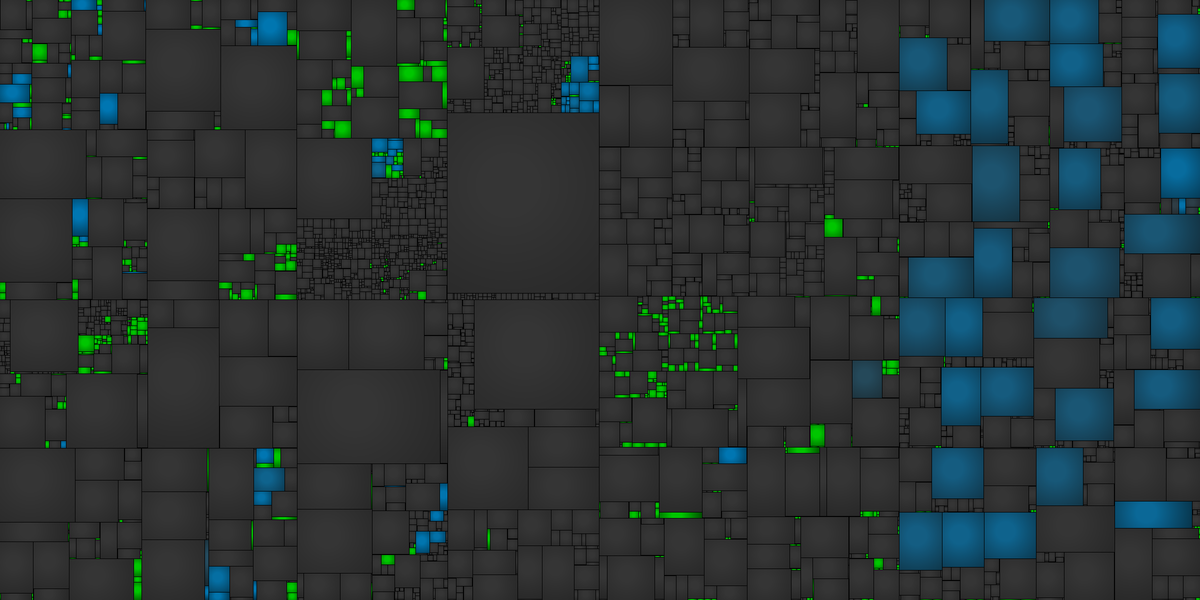
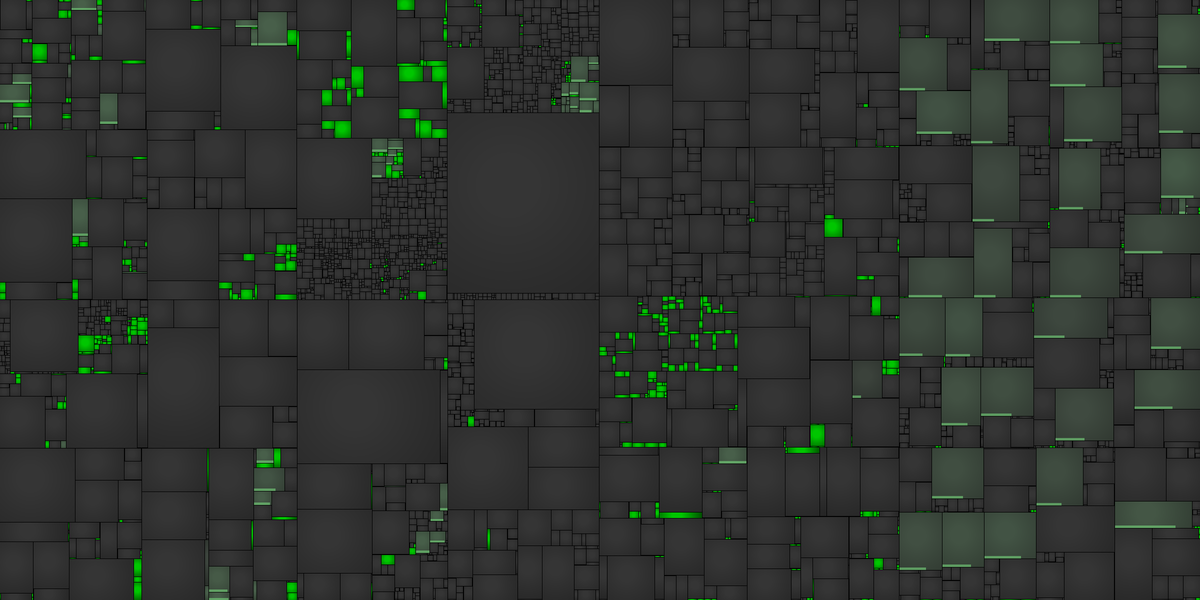
README: restructure intro, move contributors to the bottom; add AGENTS.md; new treemap look

diff --git a/AGENTS.md b/AGENTS.md
@@ -1,0 +1,104 @@
+# AGENTS.md
+
+Instructions for AI agents (Claude, Codex, ...) working on this matching decompilation of Super Smash Bros. Brawl (NTSC-U Rev 2, `RSBE01_02`, MWCC GC/3.0a5.2). A human gives you a task, a name to use, credentials and their identity. Everything else is here.
+
+"Matching" = C++ that compiles to byte-identical code. Progress is `build/RSBE01_02/report.json` (per-function match %) plus the SHA-1 check: **all 127 files must stay OK**. The README explains the project layout and building.
+
+## 0. Ground rules
+
+- **You do not have the game image and must never obtain, copy, print or commit it** (or anything extracted from it: `orig/`, `build/`, assets, asm dumps, maps, codesets, Ghidra output). It lives on the build server.
+- Pick a short name for yourself (lowercase, e.g. `hawk`). Use it for your claims, worktrees and branches.
+- Work alone: **do not use subagents, background agents, parallel tasks or workflow/multi-agent features.** One thread, so you can run for hours on little usage.
+- **Do not ask questions** and do not wait for replies. Decide with the rules below and keep going until your queue is done or you are blocked.
+- If a command is refused, an approval is needed, or the server returns a TLS/auth error: stop and print a 3-line report (what blocked you, what you finished, where your branch is). Do not work around a block.
+- No docs/notes files in this repo (this file and the README are the exceptions). Keep notes outside the repo (on the server in `/srv/brawl-native/notes/`).
+- Never push to `doldecomp/brawl`. Never put keys, tokens or server details in commits.
+
+## 1. The build server
+
+Builds and diffs run on the maintainer's server, because the game image is there. You reach it with a small signed-HTTPS client. Your human gives you `BX_URL` and `BX_KEY`.
+
+```bash
+mkdir -p ~/bin && cat > ~/bin/bx.py <<'PY'
+#!/usr/bin/env python3
+"""bx: run commands / move files on the build server over signed HTTPS.
+env: BX_URL, BX_KEY.   bx.py exec '<shell cmd>' | bx.py get /remote/path local | bx.py put local /remote/path"""
+import hashlib, hmac, json, os, sys, time, uuid, urllib.request, urllib.error
+URL = os.environ["BX_URL"].rstrip("/"); KEY = os.environ["BX_KEY"].encode()
+def call(ep, body=b"", query=""):
+    ts = str(time.time()); nonce = uuid.uuid4().hex
+    msg = "\n".join(["POST", ep + (("?" + query) if query else ""), ts, nonce, hashlib.sha256(body).hexdigest()])
+    sig = hmac.new(KEY, msg.encode(), hashlib.sha256).hexdigest()
+    r = urllib.request.Request(URL + "/" + ep + (("?" + query) if query else ""), data=body, method="POST",
+        headers={"X-Ts": ts, "X-Nonce": nonce, "X-Sig": sig, "User-Agent": "bx/1", "Content-Type": "application/octet-stream"})
+    try: return urllib.request.urlopen(r, timeout=120).read()
+    except urllib.error.HTTPError as e: sys.exit("HTTP %s %s" % (e.code, e.read()[:200]))
+def main():
+    a = sys.argv[1:]
+    if a[0] == "exec":
+        r = json.loads(call("exec", json.dumps({"cmd": a[1], "wait": 40}).encode()))
+        while True:
+            sys.stdout.write(r["data"]); sys.stdout.flush()
+            if r["done"]: sys.exit(r["rc"])
+            r = json.loads(call("job", json.dumps({"id": r["id"], "offset": r["offset"], "wait": 40}).encode()))
+    elif a[0] == "get": open(a[2], "wb").write(call("get", json.dumps({"path": a[1]}).encode()))
+    elif a[0] == "put": print(call("put", open(a[1], "rb").read(), "path=" + a[2]).decode())
+    else: sys.exit(__doc__)
+main()
+PY
+export BX_URL=...   # given by your human
+export BX_KEY=...   # given by your human
+python3 ~/bin/bx.py exec 'whoami; ls /srv/brawl-native'    # expect: claude, then folders
+python3 ~/bin/bx.py exec "git config --global --add safe.directory '*'"
+```
+
+If you get a TLS/certificate error: stop and report it (do not disable verification). You are the unprivileged user `claude` on the server (no sudo). Always use `nice`, at most 4 build jobs, and stay inside `/srv/brawl-native`.
+
+Server layout (`/srv/brawl-native`): `brawl/` (reference checkout, do not edit), `private/Brawl.wbfs` (never touch), `tools/`, `notes/` (`WORK_QUEUE.md`, `map_labels.csv`, `gecko/`, `sibling_status.md`, ...), `references/maps/maps/<module>.map` (symbol names; offsets match `fn_<module id>_<offset>`, 1-6% are wrong, verify), `references/BrawlRE/` (status IDs, module table, PSA events), `ghidra-*` (pseudocode), `CLAIMS.txt`.
+
+## 2. Claims and your work queue
+
+- Read the queue first: `bx exec 'cat /srv/brawl-native/notes/WORK_QUEUE.md'`. Work it top to bottom. Its first item is template instantiations in `sora_melee`; prove the approach on ONE template, report how many functions turn green, then scale it. If instantiations cannot be matched without the original translation-unit boundaries, say so and move to the next item instead of guessing boundaries.
+- Other agents work at the same time. Before starting a unit: `bx exec 'cat /srv/brawl-native/CLAIMS.txt; ls -d /srv/brawl-native/wt-*'`, and check `grep -n "<unit file>" configure.py` on main (skip anything `Matching`). Take a unit nobody claimed, in a different class or file family from other agents. Then claim it: `echo "<your name> | <unit> | <your worktree> | in progress" >> /srv/brawl-native/CLAIMS.txt`, and update the line (`done`/`abandoned`) when finished. The line already in CLAIMS.txt wins a conflict.
+- `notes/gecko/next_targets.md` is stale at the top; verify against `configure.py` before using it.
+- Skip Nintendo SDK, online (DWC/NHTTP/NWC24/GameSpy/TMCC) and nw4r g3d code: not worth matching.
+
+## 3. Workflow
+
+1. **Worktree** (reuse ONE per agent across units; each costs several GB). Your human's identity is set here, see section 5:
+   `bx exec 'HUMAN_NAME="<Human Name>" HUMAN_EMAIL="<id>+<user>@users.noreply.github.com" /srv/brawl-native/tools/remote/newwt.sh <name>-<topic>'` creates `/srv/brawl-native/wt-<name>-<topic>` on branch `agent/<name>-<topic>`.
+2. **Build and check** (first build ~10+ min, output streams): `bx exec '/srv/brawl-native/tools/remote/rbuild.sh <name>-<topic>'` (hash check must be 127 ok / 0 bad). Per-function results: `bx exec 'python3 /srv/brawl-native/tools/report.py /srv/brawl-native/wt-<name>-<topic> <unit filter>'`. For quick iteration rebuild only the object you edit (`ninja build/RSBE01_02/src/<unit>.o` inside the worktree); run the full build before committing.
+3. **Edit** with `bx put <local> /srv/brawl-native/wt-<name>-<topic>/<path>` or remote sed/python. Mark a unit `Matching` in `configure.py` only if every function is 100% AND all 127 hashes are OK.
+4. **Pseudocode** (draft only: raw offsets, unresolved virtual calls, unreliable paired-single code): `bx exec 'cd /srv/brawl-native && export BRAWL_ROOT=$PWD BRAWL_GHIDRA_PROJDIR=/srv/brawl-native/ghidra-proj-claude && python3 tools/ghidra/decomp.py <module> <hex offset>'` (whole unit: `decomp_unit.py <module> <start> <end>`). If the module is not loaded, run `python3 tools/ghidra/add_module.py <module>` first (stops the decompiler, 2-4 min).
+5. **Near-misses** (90-99%) are usually register allocation or instruction order: temporaries, early returns, `int` vs `u8`, inline helpers, `#pragma scheduling 603`, or the permuter (`tools/permuter/README.md`).
+6. **Commit often** (every 20-30 min) and push your branch; open a pull request when a unit or a coherent batch is done.
+
+## 4. Branches and pull requests
+
+- Branch name: `agent/<name>-<descriptive-topic>` (for example `agent/hawk-so-array-vector-templates`, `agent/lynx-ft-sonic-builder`). One topic per branch, small enough to review.
+- Push with the GitHub token your human gives you (`GH_TOKEN`):
+  `git push https://x-access-token:$GH_TOKEN@github.com/humboldt123/brawl.git <branch>` (do not store the token in the repo or in a remote URL).
+- Open a PR into `humboldt123/brawl` `main`:
+  `curl -s -X POST -H "Authorization: Bearer $GH_TOKEN" -H "Accept: application/vnd.github+json" https://api.github.com/repos/humboldt123/brawl/pulls -d '{"title":"<title>","head":"<branch>","base":"main","body":"<what matched, how many functions, what is unsure>"}'`
+- PR body: what you matched, how many functions went green, what you are unsure about, and that all 127 hashes are OK. Do not merge your own PRs; the maintainer merges. Keep branches rebased on `main` (`git fetch origin && git rebase origin/main`). Do not leave stale branches: the maintainer deletes merged ones.
+
+## 5. Commit identity (required)
+
+Commits show who ran the agent and which agent. The worktree author is already set by `newwt.sh` from `HUMAN_NAME` / `HUMAN_EMAIL`. All worktrees on the server share one git dir, so **never** run plain `git config user.name`; use `git config --worktree ...` if you must. Check: `git log -1 --format='%an <%ae>'`.
+
+End every commit message with a blank line and exactly one trailer for the agent you are:
+
+- `Co-Authored-By: Claude <noreply@anthropic.com>`
+- `Co-Authored-By: Codex <noreply@openai.com>`
+
+No other trailers, no session links. Imported commits from other people keep only their original authors. GitHub then shows "Human and Agent".
+
+## 6. Code conventions
+
+- Mark guesses `// HYPOTHESIS:`, code that exists only to force a byte match `// MATCH-ONLY:`, unknown fields `unkN`. Names need evidence (callers, vtables, maps, BrawlRE docs, `RSBE01.lst` in BrawlHeaders). Do not invent names.
+- Study merged examples first: `src/mo_melee/sora_melee/ft/ft_status_uniq_process_*.cpp`, `src/sora/mu/mu_menu.cpp`, `src/mo_fighter/ft_marth/ft_marth.cpp`, `include/ft/builder/*`.
+- Prefer real member calls over `extern "C" fn_xxxx` stand-ins: name the symbol in `symbols.txt` (mangled name) and call it normally.
+- Never rename a REL function to a name that already exists elsewhere in the symbols (breaks the `.rel` hash). Weak-symbol duplicates: see the `tools/weak_dups.py` recipe.
+- The BrawlHeaders submodule cannot be edited. To add members to one of its classes, add a local header that shadows it (`-I include` comes first) and say so in a comment, as `include/gf/gf_scene.h` does.
+- Always check `git diff --stat` before committing. Never write a source file from a script that can crash halfway (compute the whole new text first).
+- Finish small units and near-misses before huge ones. Report what you matched, what is left and what you were unsure about every hour and when you stop.

diff --git a/README.md b/README.md
@@ -8,44 +8,13 @@ Super Smash Bros. Brawl
 [Data Progress]: https://img.shields.io/endpoint?url=https%3A%2F%2Fraw.githubusercontent.com%2Fhumboldt123%2Fbrawl%2Fmain%2F.github%2Fbadges%2Fdata.json
 [progress]: https://github.com/humboldt123/brawl
 
-A work-in-progress decompilation of Super Smash Bros. Brawl.
+A work-in-progress slopcoded decompilation of Super Smash Bros. Brawl. (This repository does not contain any game assets or assembly whatsoever. An existing copy of the game is required.)
 
 ![Progress treemap](https://raw.githubusercontent.com/humboldt123/brawl/main/.github/progress/treemap.png)
 
-Each rectangle is a unit sized by its code; green is fully matched, blue is partially matched, grey is not started.
-
-This repository does **not** contain any game assets or assembly whatsoever. An existing copy of the game is required.
-
-## Contributors and AI agents
-
-Much of the work in this fork is done by AI agents (Claude, Codex) working for a person. Commits should show **who ran the agent and which agent it was**:
-
-- **Author and committer** = the human whose account or credits run the agent (for example `humboldt123`, `DanielDavis05`). Use that person's GitHub noreply address (`<id>+<username>@users.noreply.github.com`).
-- **Co-author** = the agent, as a trailer at the end of the message, so GitHub shows "Human and Agent":
-  - `Co-Authored-By: Claude <noreply@anthropic.com>` (include the model name if known, e.g. `Claude Sonnet 5.5`)
-  - `Co-Authored-By: Codex <noreply@openai.com>`
-- Never commit as just `Claude` or `codex`, never leave session links in messages, and keep other people's authorship intact when importing their commits.
-
-Agents: set this before your first commit in a clone or worktree:
-
-```
-git config user.name  "<HUMAN NAME>"
-git config user.email "<ID>+<USERNAME>@users.noreply.github.com"
-```
-
 Supported versions:
 
-<!--
-- `RSBJ01_00`: Japan Rev 0
-- `RSBJ01_01`: Japan Rev 1
-- `RSBE01_01`: USA Rev 1
--->
 - `RSBE01_02`: USA Rev 2
-<!--
-- `RSBP01_00`: PAL Rev 0
-- `RSBP01_01`: PAL Rev 1
-- `RSBK01_00`: Korea Rev 0
--->
 
 Dependencies
 ============
@@ -132,3 +101,22 @@ Download the latest release from [encounter/objdiff](https://github.com/encounte
 Select an object from the left sidebar to begin diffing. Changes to the project will rebuild automatically: changes to source files, headers, `configure.py`, `splits.txt` or `symbols.txt`.
 
 ![](assets/objdiff.png)
+
+## Contributors and AI agents
+
+See [AGENTS.md](AGENTS.md) for the full agent instructions.
+
+Much of the work in this fork is done by AI agents (Claude, Codex) working for a person. Commits should show **who ran the agent and which agent it was**:
+
+- **Author and committer** = the human whose account or credits run the agent (for example `humboldt123`, `DanielDavis05`). Use that person's GitHub noreply address (`<id>+<username>@users.noreply.github.com`).
+- **Co-author** = the agent, as a trailer at the end of the message, so GitHub shows "Human and Agent":
+  - `Co-Authored-By: Claude <noreply@anthropic.com>` (include the model name if known, e.g. `Claude Sonnet 5.5`)
+  - `Co-Authored-By: Codex <noreply@openai.com>`
+- Never commit as just `Claude` or `codex`, never leave session links in messages, and keep other people's authorship intact when importing their commits.
+
+Agents: set this before your first commit in a clone or worktree:
+
+```
+git config user.name  "<HUMAN NAME>"
+git config user.email "<ID>+<USERNAME>@users.noreply.github.com"
+```
